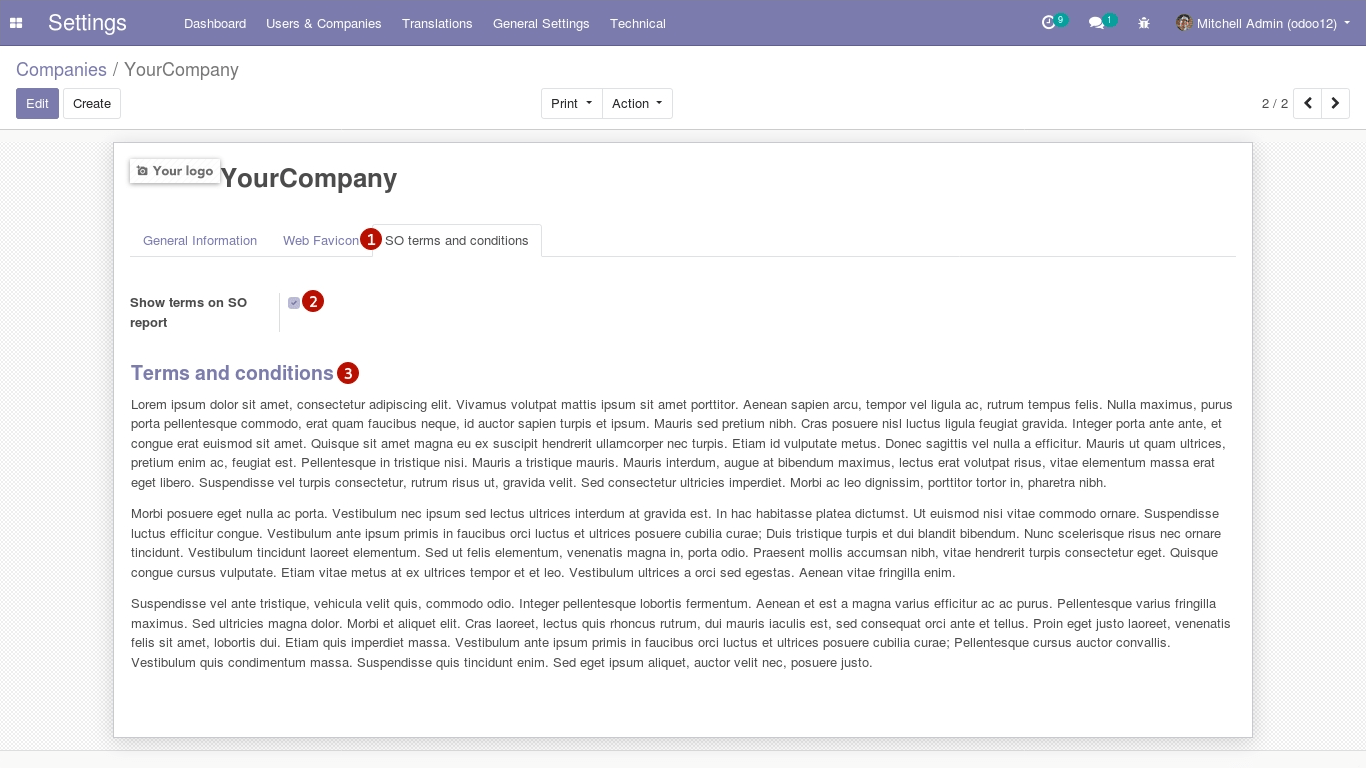
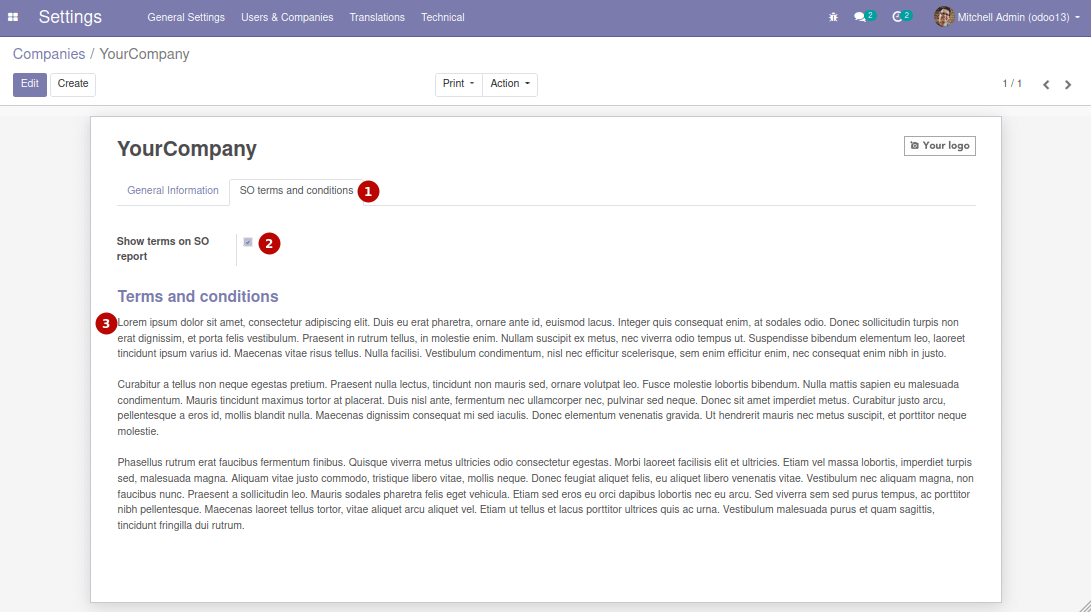
[MIG] SO terms & conditions: 12.0 --> 13.0

diff --git a/lbr_so_terms/static/description/index.html b/lbr_so_terms/static/description/index.html
@@ -566,8 +566,8 @@ a { text-decoration: none; }
 <p>This module adds the terms and conditions of the company to the last page of the sales order report.</p>
 <p>You need to go to <em>Settings &gt; Users and companies &gt; Companies</em>, open <strong>Terms and conditions</strong> tab, mark <strong>Show terms on SO report</strong> checkbox and cover terms content on this tab.</p>
 <p>Only users with the role of sales manager can modify it.</p>
-<img alt="SO terms &amp; conditions" src="https://raw.githubusercontent.com/libreinnova/odoo_public_addons/12.0/lbr_so_terms/static/description/screen_1.png" class="img-responsive"/>
-<img alt="SO terms &amp; conditions" src="https://raw.githubusercontent.com/libreinnova/odoo_public_addons/12.0/lbr_so_terms/static/description/screen_2.png" class="img-responsive"/>
+<img alt="SO terms &amp; conditions" src="https://raw.githubusercontent.com/libreinnova/odoo_public_addons/13.0/lbr_so_terms/static/description/screen_1.png" class="img-responsive"/>
+<img alt="SO terms &amp; conditions" src="https://raw.githubusercontent.com/libreinnova/odoo_public_addons/13.0/lbr_so_terms/static/description/screen_2.png" class="img-responsive"/>
 </div>
 <div class="section" id="author">
 <h1>Author</h1>
@@ -576,7 +576,7 @@ a { text-decoration: none; }
 <h2>Contributors</h2>
 <ul class="simple">
 <li><p>Libreinnova</p></li>
-<li><p>Pavel Smirnov, <a class="reference external" href="mailto:pavel&#64;libreinnova.com">pavel&#64;libreinnova.com</a></p></li>
+<li><p>Pavel S., <a class="reference external" href="mailto:pavel&#64;libreinnova.com">pavel&#64;libreinnova.com</a></p></li>
 </ul>
 </div>
 <div class="section" id="other-credits">
@@ -598,7 +598,7 @@ a { text-decoration: none; }
 <p>We does not warrant that the module will meet your requirements;
 that the current application will be uninterrupted, timely, secure, or error-free or that any defects or errors will be corrected.</p>
 <hr class="docutils" />
-<p>Copyright(c): 2020 Libreinnova (<a class="reference external" href="https://libreinnova.com/">https://libreinnova.com/</a>)</p>
+<p>Copyright(c): 2022 Libreinnova (<a class="reference external" href="https://libreinnova.com/">https://libreinnova.com/</a>)</p>
 <p>All Rights Reserved</p>
 <p>See LICENSE file for full copyright and licensing details.</p>
 </div>

diff --git a/lbr_so_terms/__manifest__.py b/lbr_so_terms/__manifest__.py
@@ -1,6 +1,6 @@
 ###############################################################################
 #
-# Copyright(c): 2020 Libreinnova (<https://libreinnova.com/>)
+# Copyright(c): 2022 Libreinnova (<https://libreinnova.com/>)
 # License AGPL-3 - See http://www.gnu.org/licenses/agpl-3.0.html
 # See LICENSE file for full copyright and licensing details.
 # All Rights Reserved
@@ -8,7 +8,7 @@
 ###############################################################################
 {
     'name': 'SO terms & conditions',
-    'version': '12.0.1.0',
+    'version': '13.0.1.0',
     'summary': 'Add terms and conditions to the SO PDF report',
     'description': '',
     'category': 'Sales',

diff --git a/lbr_so_terms/__init__.py b/lbr_so_terms/__init__.py
@@ -1,11 +1,10 @@
 ###############################################################################
 #
-# Copyright(c): 2020 Libreinnova (<https://libreinnova.com/>)
+# Copyright(c): 2022 Libreinnova (<https://libreinnova.com/>)
 # License AGPL-3 - See http://www.gnu.org/licenses/agpl-3.0.html
 # See LICENSE file for full copyright and licensing details.
 # All Rights Reserved
 #
 ###############################################################################
-
 
 from . import models

diff --git a/lbr_so_terms/models/__init__.py b/lbr_so_terms/models/__init__.py
@@ -1,6 +1,6 @@
 ###############################################################################
 #
-# Copyright(c): 2020 Libreinnova (<https://libreinnova.com/>)
+# Copyright(c): 2022 Libreinnova (<https://libreinnova.com/>)
 # License AGPL-3 - See http://www.gnu.org/licenses/agpl-3.0.html
 # See LICENSE file for full copyright and licensing details.
 # All Rights Reserved

diff --git a/lbr_so_terms/README.rst b/lbr_so_terms/README.rst
@@ -24,10 +24,10 @@ You need to go to *Settings > Users and companies > Companies*, open **Terms and
 
 Only users with the role of sales manager can modify it.
 
-.. image:: https://raw.githubusercontent.com/libreinnova/odoo_public_addons/12.0/lbr_so_terms/static/description/screen_1.png
+.. image:: https://raw.githubusercontent.com/libreinnova/odoo_public_addons/13.0/lbr_so_terms/static/description/screen_1.png
    :alt: SO terms & conditions
 
-.. image:: https://raw.githubusercontent.com/libreinnova/odoo_public_addons/12.0/lbr_so_terms/static/description/screen_2.png
+.. image:: https://raw.githubusercontent.com/libreinnova/odoo_public_addons/13.0/lbr_so_terms/static/description/screen_2.png
    :alt: SO terms & conditions
 
 Author
@@ -39,7 +39,7 @@ Contributors
 ~~~~~~~~~~~~
 
 * Libreinnova
-* Pavel Smirnov, pavel@libreinnova.com
+* Pavel S., pavel@libreinnova.com
 
 Other credits
 ~~~~~~~~~~~~~
@@ -67,7 +67,7 @@ that the current application will be uninterrupted, timely, secure, or error-fre
 
 -------------
 
-Copyright(c): 2020 Libreinnova (https://libreinnova.com/)
+Copyright(c): 2022 Libreinnova (https://libreinnova.com/)
 
 All Rights Reserved
 
